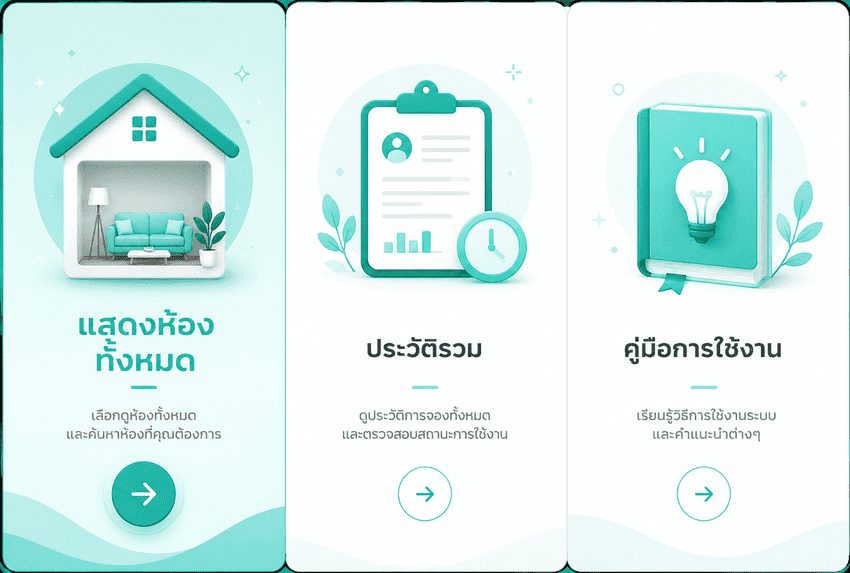
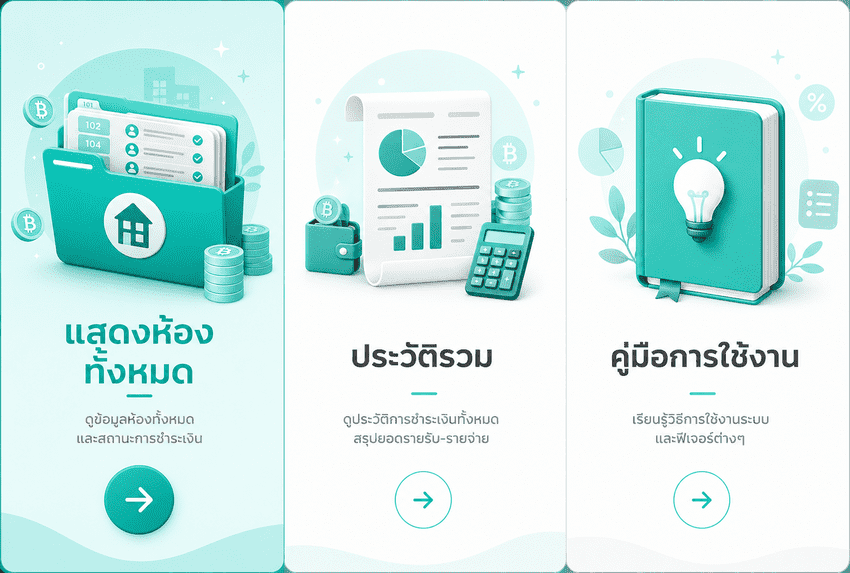
feat: add expense management module with CRUD operations, validation, and database integration

diff --git a/src/modules/expenses/expense.controller.js b/src/modules/expenses/expense.controller.js
@@ -1,0 +1,36 @@
+import * as expenseService from "./expense.service.js";
+import { validateCreateExpense } from "./expense.validation.js";
+import { success, error } from "../../utils/response.js";
+import { STATUS_CODE } from "../../constants/statusCode.js";
+
+export async function create(req, res, next) {
+  try {
+    const errs = validateCreateExpense(req.body);
+    if (errs.length) {
+      return error(res, "Validation failed", STATUS_CODE.UNPROCESSABLE, errs);
+    }
+
+    const expense = await expenseService.createExpense(req.body);
+    return success(res, expense, "Expense created", STATUS_CODE.CREATED);
+  } catch (err) {
+    next(err);
+  }
+}
+
+export async function getById(req, res, next) {
+  try {
+    const expense = await expenseService.getExpenseById(Number(req.params.id));
+    return success(res, expense);
+  } catch (err) {
+    next(err);
+  }
+}
+
+export async function getByRoom(req, res, next) {
+  try {
+    const expenses = await expenseService.getExpensesByRoomId(req.params.roomId);
+    return success(res, expenses);
+  } catch (err) {
+    next(err);
+  }
+}

diff --git a/src/modules/expenses/expense.service.js b/src/modules/expenses/expense.service.js
@@ -1,0 +1,25 @@
+import * as expenseRepo from "./expense.repository.js";
+
+export async function createExpense(data) {
+  const expense = await expenseRepo.create({
+    title: data.title,
+    amount: parseFloat(data.amount),
+    receiptUrl: data.receipt_url || null,
+    roomId: data.roomId,
+  });
+  return expense;
+}
+
+export async function getExpenseById(id) {
+  const expense = await expenseRepo.findById(id);
+  if (!expense) {
+    const error = new Error("Expense not found");
+    error.statusCode = 404;
+    throw error;
+  }
+  return expense;
+}
+
+export async function getExpensesByRoomId(roomId) {
+  return expenseRepo.findByRoomId(roomId);
+}

diff --git a/src/modules/expenses/expense.validation.js b/src/modules/expenses/expense.validation.js
@@ -1,0 +1,16 @@
+export function validateCreateExpense(data) {
+  const errors = [];
+  if (!data.title || typeof data.title !== "string") {
+    errors.push("title is required and must be a string");
+  }
+  if (data.amount === undefined || data.amount === null || isNaN(Number(data.amount))) {
+    errors.push("amount is required and must be a number");
+  }
+  if (!data.roomId || typeof data.roomId !== "string") {
+    errors.push("roomId is required and must be a string");
+  }
+  if (data.receipt_url !== undefined && typeof data.receipt_url !== "string") {
+    errors.push("receipt_url must be a string if provided");
+  }
+  return errors;
+}

diff --git a/src/modules/expenses/expense.repository.js b/src/modules/expenses/expense.repository.js
@@ -1,0 +1,14 @@
+import prisma from "../../config/database.js";
+import { expenseSelect } from "./expense.model.js";
+
+export function create(data) {
+  return prisma.expense.create({ data, select: expenseSelect });
+}
+
+export function findById(id) {
+  return prisma.expense.findUnique({ where: { id }, select: expenseSelect });
+}
+
+export function findByRoomId(roomId) {
+  return prisma.expense.findMany({ where: { roomId }, select: expenseSelect, orderBy: { createdAt: "desc" } });
+}

diff --git a/src/modules/expenses/expense.route.js b/src/modules/expenses/expense.route.js
@@ -1,0 +1,10 @@
+import { Router } from "express";
+import * as expenseController from "./expense.controller.js";
+
+const router = Router();
+
+router.post("/", expenseController.create);
+router.get("/:id", expenseController.getById);
+router.get("/room/:roomId", expenseController.getByRoom);
+
+export default router;

diff --git a/scripts/setup-richmenu.js b/scripts/setup-richmenu.js
@@ -87,14 +87,18 @@ async function setupRichMenus() {
       areas: [
         {
           bounds: { x: 0, y: 0, width: 1250, height: 843 },
-          action: { type: "uri", uri: `https://liff.line.me/${process.env.LIFF_ID}/verify-slip` }
+          action: { type: "postback", data: "action=pay" }
         },
         {
           bounds: { x: 1250, y: 0, width: 1250, height: 843 },
+          action: { type: "uri", uri: `https://liff.line.me/${process.env.LIFF_ID}/verify-slip` }
+        },
+        {
+          bounds: { x: 0, y: 843, width: 1250, height: 843 },
           action: { type: "uri", uri: `https://liff.line.me/${process.env.LIFF_ID}/dashboard` }
         },
         {
-          bounds: { x: 0, y: 843, width: 2500, height: 843 },
+          bounds: { x: 1250, y: 843, width: 1250, height: 843 },
           action: { type: "postback", data: "action=switch_room" }
         }
       ]

diff --git a/src/modules/expenses/expense.model.js b/src/modules/expenses/expense.model.js
@@ -1,0 +1,8 @@
+export const expenseSelect = {
+  id: true,
+  title: true,
+  amount: true,
+  receiptUrl: true,
+  createdAt: true,
+  roomId: true,
+};

diff --git a/src/constants/richmenu.js b/src/constants/richmenu.js
@@ -1,6 +1,6 @@
 // Rich Menu IDs — อัปเดตหลังจากรัน scripts/setup-richmenu.js
 export const RICH_MENU = {
-  SELECT: 'richmenu-12c6dd1e6e46d68227fc3bf5d23be42c',
-  MEMBER: 'richmenu-fc24863167126373743b731ef4485c4a',
-  MANAGER: 'richmenu-8aba466fea9b0e61f77d9a5a7220f6de',
+  SELECT: 'richmenu-d5c6a3d7ed8e2ac29b23dd212aae1392',
+  MEMBER: 'richmenu-4f9e94542513f5e4be4e1228b74f687d',
+  MANAGER: 'richmenu-ed2b01eaa902d7d0ef0c7edab57b0f99',
 };

diff --git a/src/routes/index.js b/src/routes/index.js
@@ -2,11 +2,13 @@ import { Router } from "express";
 import authRoutes from "../modules/auth/auth.route.js";
 import userRoutes from "../modules/users/user.route.js";
 import roomRoutes from "../modules/rooms/room.route.js";
+import expenseRoutes from "../modules/expenses/expense.route.js";
 
 const router = Router();
 
 router.use("/auth", authRoutes);
 router.use("/users", userRoutes);
 router.use("/rooms", roomRoutes);
+router.use("/expenses", expenseRoutes);
 
 export default router;